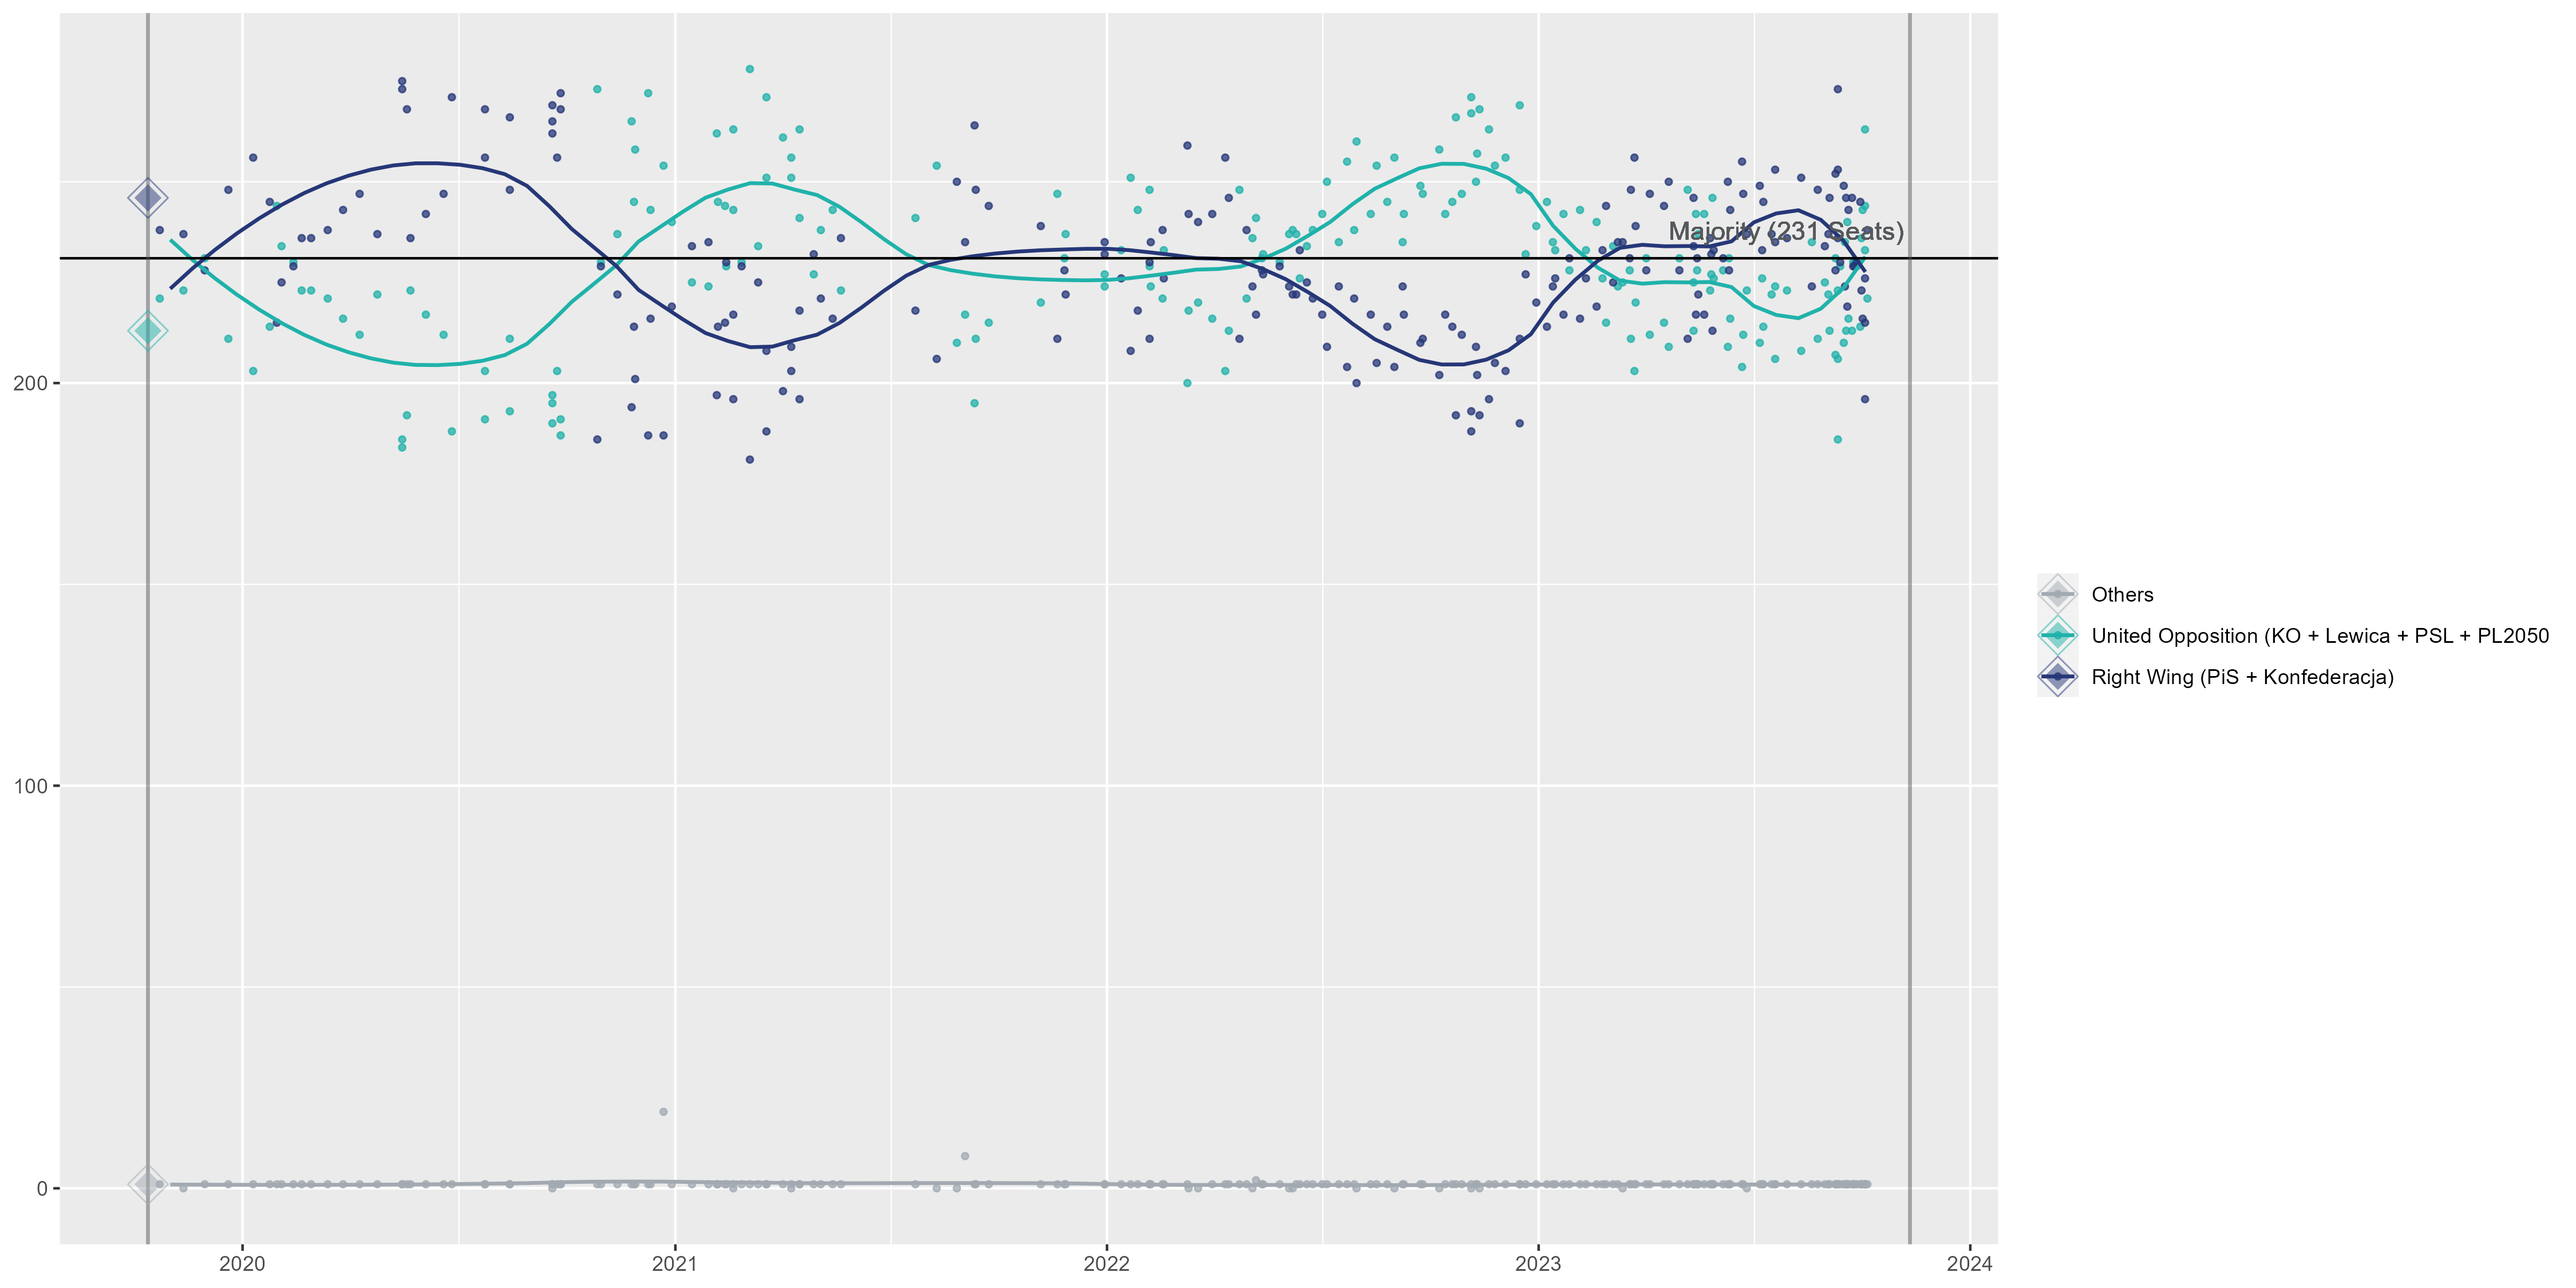
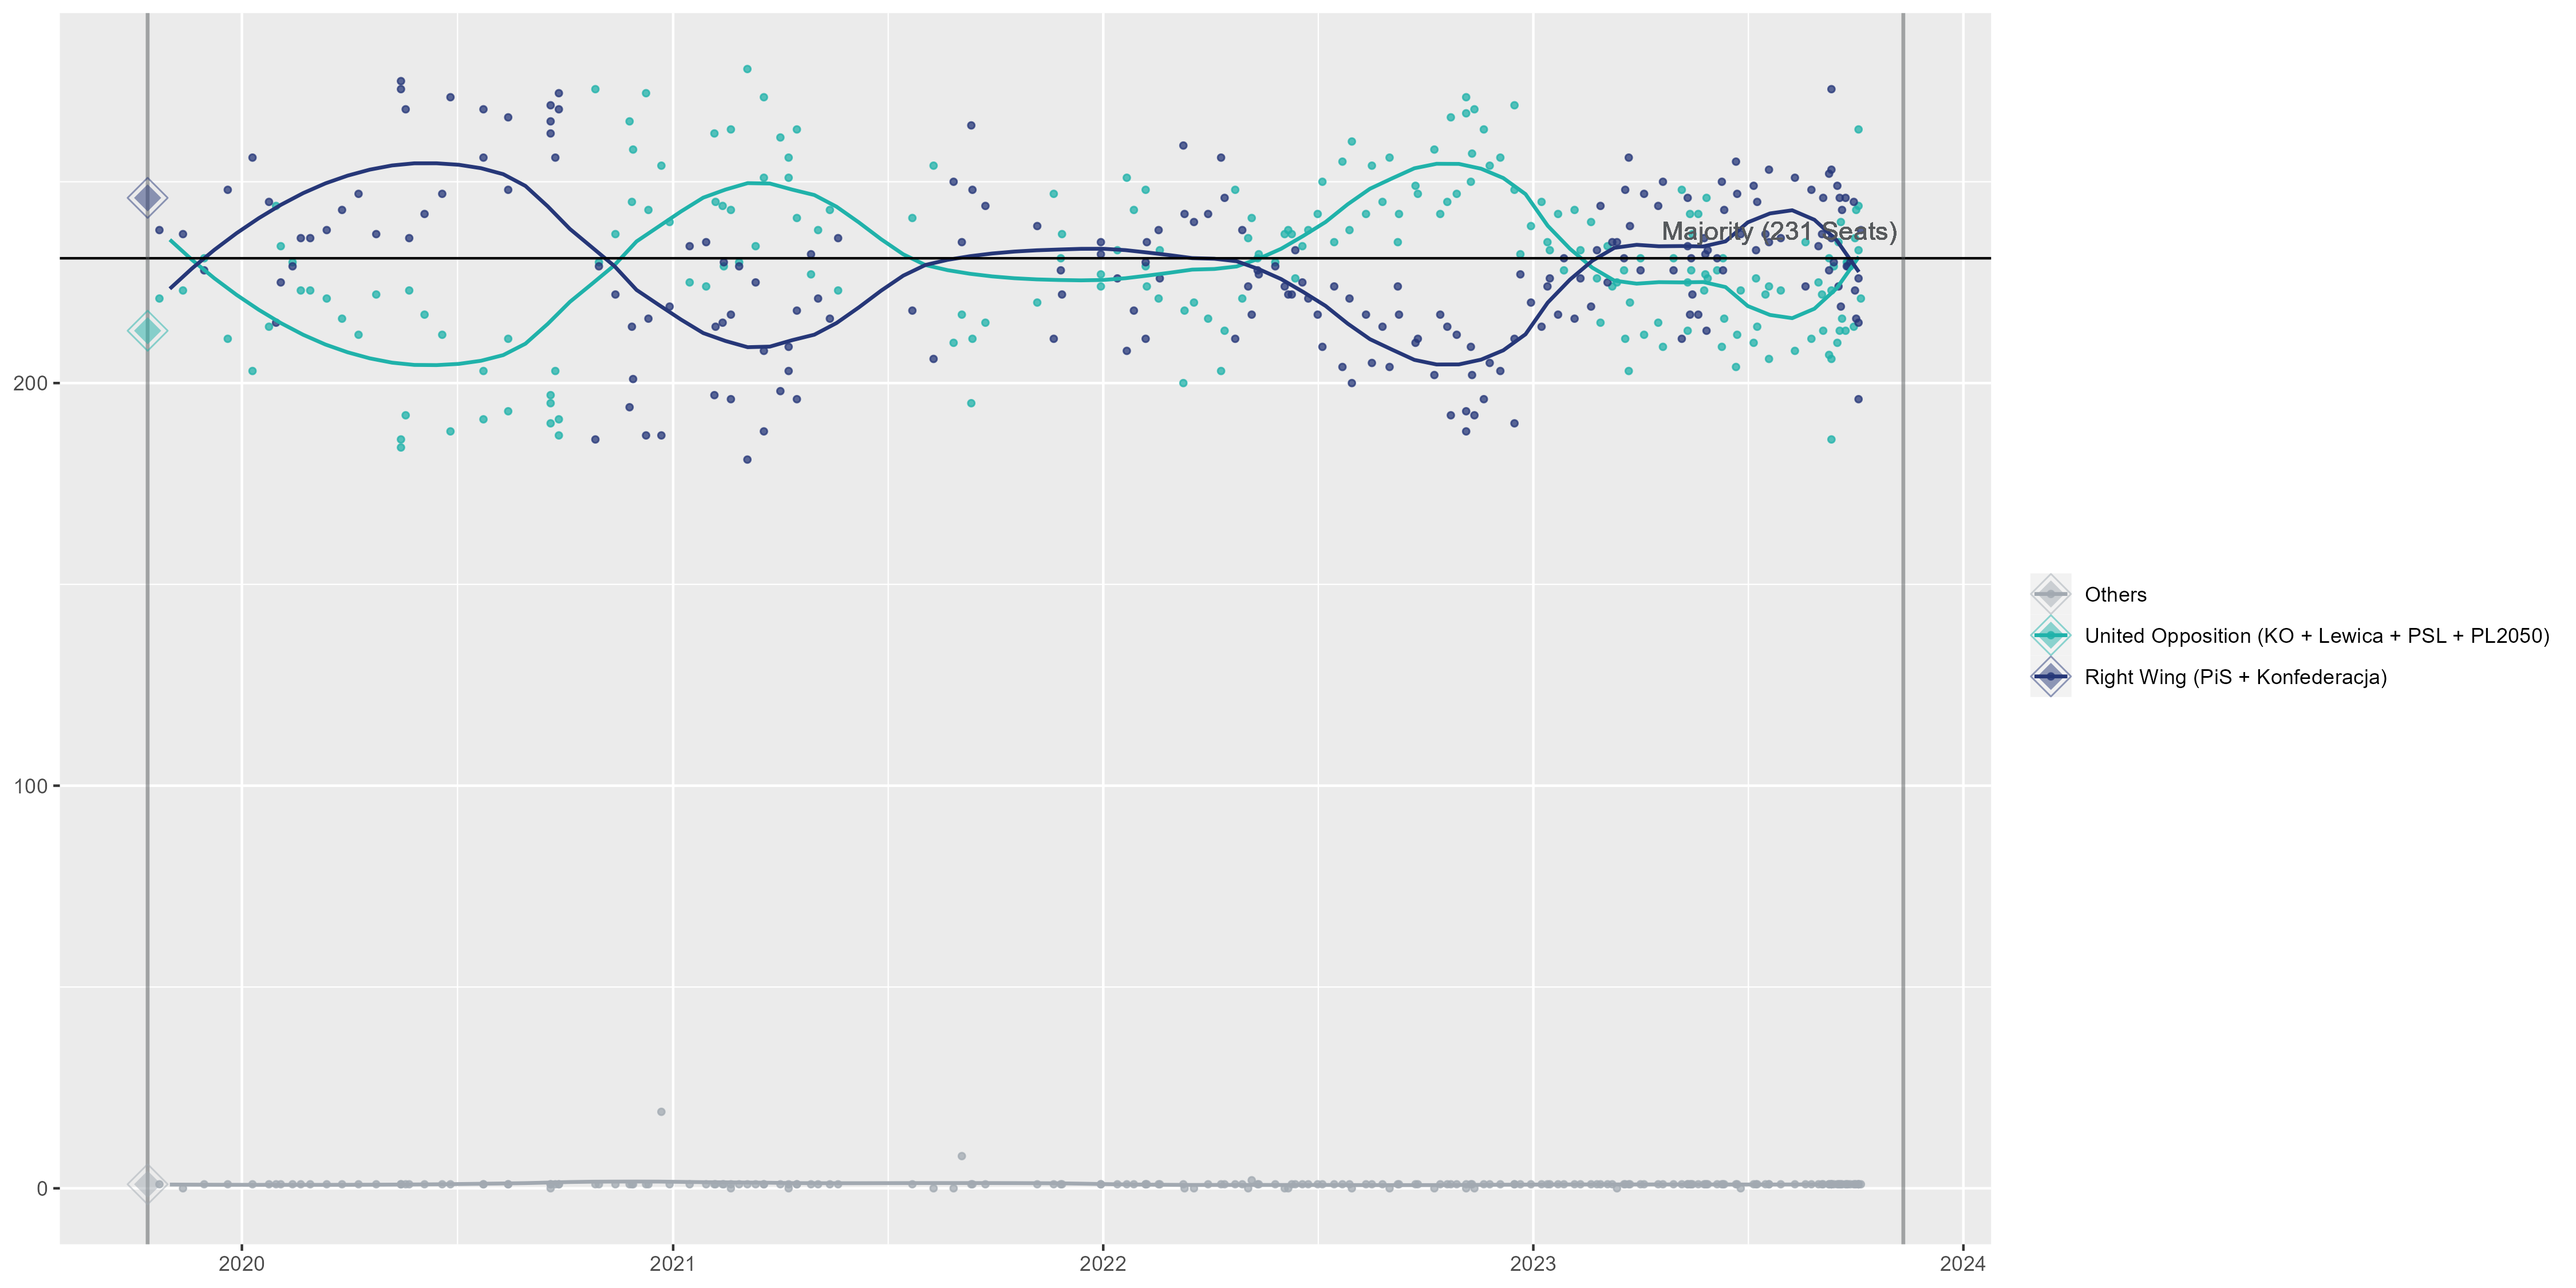
Corrections

diff --git a/Polish/Seats/data.py b/Polish/Seats/data.py
@@ -66,7 +66,7 @@ UO = ['Civic Coalition', 'The Left', 'Polish Coalition', 'Poland 2050', 'Third W
 R = ['United Right', 'Confederation']
 
 data[parties] = data[parties].astype(float)
-data['United Opposition (KO + Lewica + PSL + PL2050'] = data[UO].sum(axis=1)
+data['United Opposition (KO + Lewica + PSL + PL2050)'] = data[UO].sum(axis=1)
 data['Right Wing (PiS + Konfederacja)'] = data[R].sum(axis=1)
 data = data.drop(UO + R, axis=1)
 
